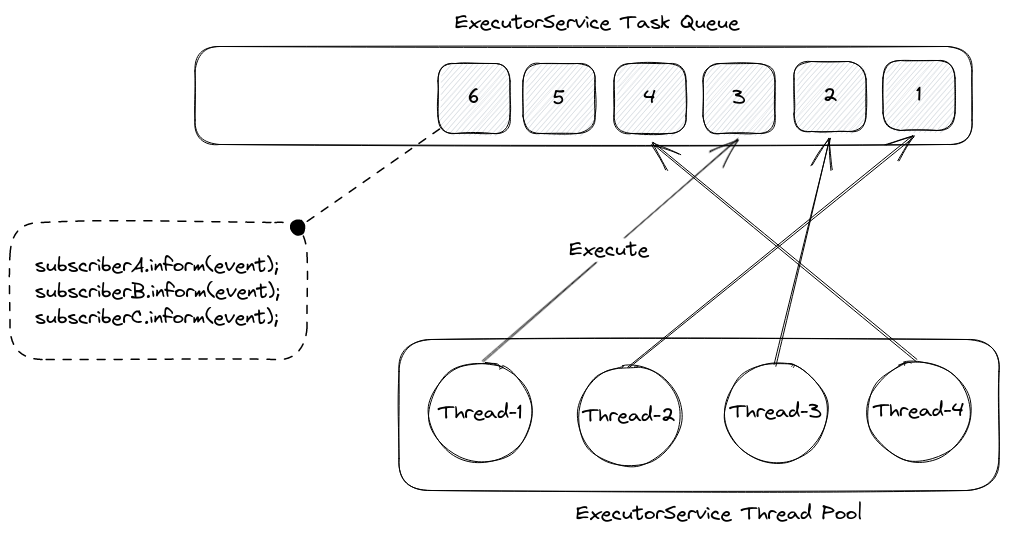
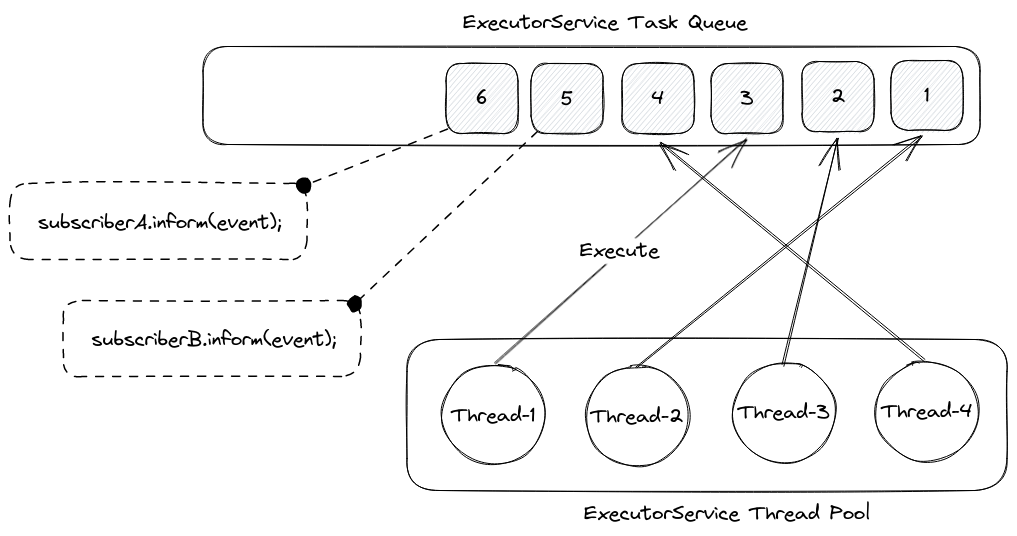
Add more justifications

diff --git a/WTF.md b/WTF.md
@@ -15,9 +15,10 @@ submitted to an `ExecutorService`, which will then execute them one-by-one. As m
 parallel, the order in which tasks are being processed is not guaranteed. Thread pool sizes can vary from one, 
 up to unbounded numbers of threads.
 
-In Dependency-Track, when an event is published, subscribers to the event are looked up. Per API contract, event
-subscribers must implement an `inform` method, which takes the published event as argument. The serial invocation of 
-**all** subscriber's `inform` methods forms a task, which is enqueued to the `ExecutorService`s task queue.
+In Dependency-Track, when an event is published, subscribers to the event are looked up. 
+Per [API contract](https://github.com/stevespringett/Alpine/blob/alpine-parent-2.2.0/alpine-infra/src/main/java/alpine/event/framework/Subscriber.java), 
+event subscribers must implement an `inform` method, which takes the published event as argument.
+For any given event, 0-N tasks will be enqueued to the `ExecutorService`'s task queue - one for each subscriber.
 
 ![](docs/dependencytrack-executorservice.png)
 
@@ -53,7 +54,7 @@ While this architecture works great for small to medium workloads, it presents v
 1. **Not horizontally scalable**. As pub-sub is happening entirely in-memory, it is not possible to distribute
 the work to multiple application instances. The only way to handle more load using this architecture is to scale
 vertically, e.g.
-   * Increasing `ExecutorService` thread pool sizes
+   * Increasing `ExecutorService` thread pool sizes (`alpine.worker.threads`, `alpine.worker.thread.multiplier`)
    * Increasing database connection pool sizes
    * Increasing resource allocations for CPU, RAM, and potentially disk / network
 2. **No ordering guarantees of events**. As multiple threads work on a shared queue of tasks in parallel, there is no way
@@ -79,6 +80,10 @@ deployments, and / or how to better scale the platform:
 * https://github.com/DependencyTrack/dependency-track/issues/1210
 * https://github.com/DependencyTrack/dependency-track/issues/1856
 
+> **Note**
+> The work we've done so far *does not* make the API server highly available. However, it *does* address
+> a substantial chunk of work that is required to make that happen.
+
 ## Why Kafka?
 
 Kafka was chosen because it employs [various concepts](https://kafka.apache.org/documentation/#intro_concepts_and_terms) 
@@ -88,11 +93,16 @@ that are advantageous for Dependency-Track:
   * Events with the same key are guaranteed to be sent to the same partition
   * Order of events is guaranteed on the partition level
   * Consumers can share the load of consuming from a topic by forming [consumer groups](https://docs.confluent.io/platform/current/clients/consumer.html#consumer-groups)
+    * Minor drawback: maximum concurrency is bound to the number of partitions
 * It is distributed and fault-tolerant by design, [replication](https://kafka.apache.org/documentation/#replication) is built-in
 * Events are stored durably on the brokers, with various options to control retention
+* [Log compaction](https://kafka.apache.org/documentation/#compaction) allows for fault-tolerant, stateful processing,
+  by streaming changes of a local key-value database to Kafka
+  * In certain cases, this can aid in reducing load on the database server
 * Mature ecosystem around it, including a vast landscape of client libraries for various languages
-  * [Kafka Streams](https://kafka.apache.org/33/documentation/streams/core-concepts) in particular turned out to be
-    a unique selling point for the Kafka ecosystem
+  * [Kafka Streams](https://kafka.apache.org/33/documentation/streams/core-concepts) with its support for
+    [stateful transformations](https://kafka.apache.org/33/documentation/streams/developer-guide/dsl-api.html#stateful-transformations)
+    in particular turned out to be a unique selling point for the Kafka ecosystem
 * Mature cloud offerings for fully managed instances (see [Options for running Kafka](#options-for-running-kafka))
 
 The concept of partitioned topics turned out to be especially useful: We can rely on the fact that events with the same
@@ -100,6 +110,15 @@ key always end up in the same partition, and are processed by only one consumer 
 In case of vulnerability scanning, by choosing the component's PURL as event key, it can be guaranteed that only the
 first event triggers an HTTP request to OSS Index, while later events can be handled immediately from cache.
 There is no race condition anymore between lookup and population of the cache.
+
+We also found the first-class support for stateful processing incredibly useful in some cases, e.g.:
+
+* **[Scatter-gather](https://www.enterpriseintegrationpatterns.com/patterns/messaging/BroadcastAggregate.html)**. 
+  As used for scanning one component with multiple analyzers. Waiting for all analyzers to complete is a stateful
+  operation, that otherwise would require database access.
+* **Batching**. Some external services allow for submitting multiple component identifiers per request.
+  With OSS Index, up to 128 package URLs can be sent in a single request. Submitting only one package URL at a
+  time would drastically increase end-to-end latency. It'd also present a greater risk of getting rate limited.
 
 That being said, Kafka *does* add a considerable amount of operational complexity. Historically, Kafka has depended
 on [Apache ZooKeeper](https://zookeeper.apache.org/). Operating both Kafka *and* ZooKeeper is not something we wanted 
@@ -125,11 +144,18 @@ It has native support for [negative acknowledgment](https://pulsar.apache.org/do
 of messages, and message [retries](https://pulsar.apache.org/docs/2.11.x/concepts-messaging/#retry-letter-topic). 
 However, the [Pulsar architecture](https://pulsar.apache.org/docs/2.11.x/concepts-architecture-overview/) consists not 
 only of Pulsar brokers, but also requires Apache ZooKeeper **and** [Apache BookKeeper](https://bookkeeper.apache.org/) 
-clusters.  We had to dismiss Pulsar for its operational complexity.
+clusters. We had to dismiss Pulsar for its operational complexity.
 
 #### RabbitMQ
 
-TBD
+[RabbitMQ](https://www.rabbitmq.com/) is a popular message broker. It exceeds in cases where multiple worker processes
+need to work on a shared queue of tasks (similar to how Dependency-Track does it today). It can achieve a high level
+of concurrency, as there's no limit to how many consumers can consume from a queue. This high grade of concurrency
+comes with the cost of lost ordering, and high potential for race conditions. 
+
+RabbitMQ supports Kafka-like partitioned streams via its [Streams plugin](https://www.rabbitmq.com/streams.html#super-streams).
+In the end, we decided against RabbitMQ, because brokers do not support key-based compaction, and its consumer libraries 
+in turn lack adequate support for fault-tolerant stateful operations.
 
 #### NATS
 
@@ -137,7 +163,10 @@ TBD
 
 #### Liftbridge
 
-TBD
+[Liftbridge](https://liftbridge.io/) is built on top of NATS and provides Kafka-like features. It is however not
+compatible with the Kafka API, as it uses a custom [envelope protocol](https://liftbridge.io/docs/envelope-protocol.html),
+and is heavily focused on Go. There are no managed service offerings for Liftbridge, leaving self-hosting as only
+option to run it.
 
 ### Options for running Kafka
 
@@ -159,8 +188,13 @@ The wide range of mature IaaS offerings is a very important benefit of Kafka ove
 
 ## Why Java?
 
-TBD
+We went with Java for now because it was the path of the least resistance for us. There is no intention to exclusively 
+use Java though. We are considering to use [Go](https://github.com/mehab/DTKafkaPOC/issues/253), and generally are open
+to any technology that makes sense.
 
 ## Why not microservices?
 
-TBD
+The proposed architecture is based on the rough idea of domain services for now. This keeps the number of independent
+services manageable, while still allowing us to distribute the overall system load. If absolutely necessary, it is 
+possible to break this up even further. For example, instead of having one *vulnerability-analyzer* service, 
+the scanners for each vulnerability source (e.g. OSS Index, Snyk) could be separated out into dedicated microservices.
